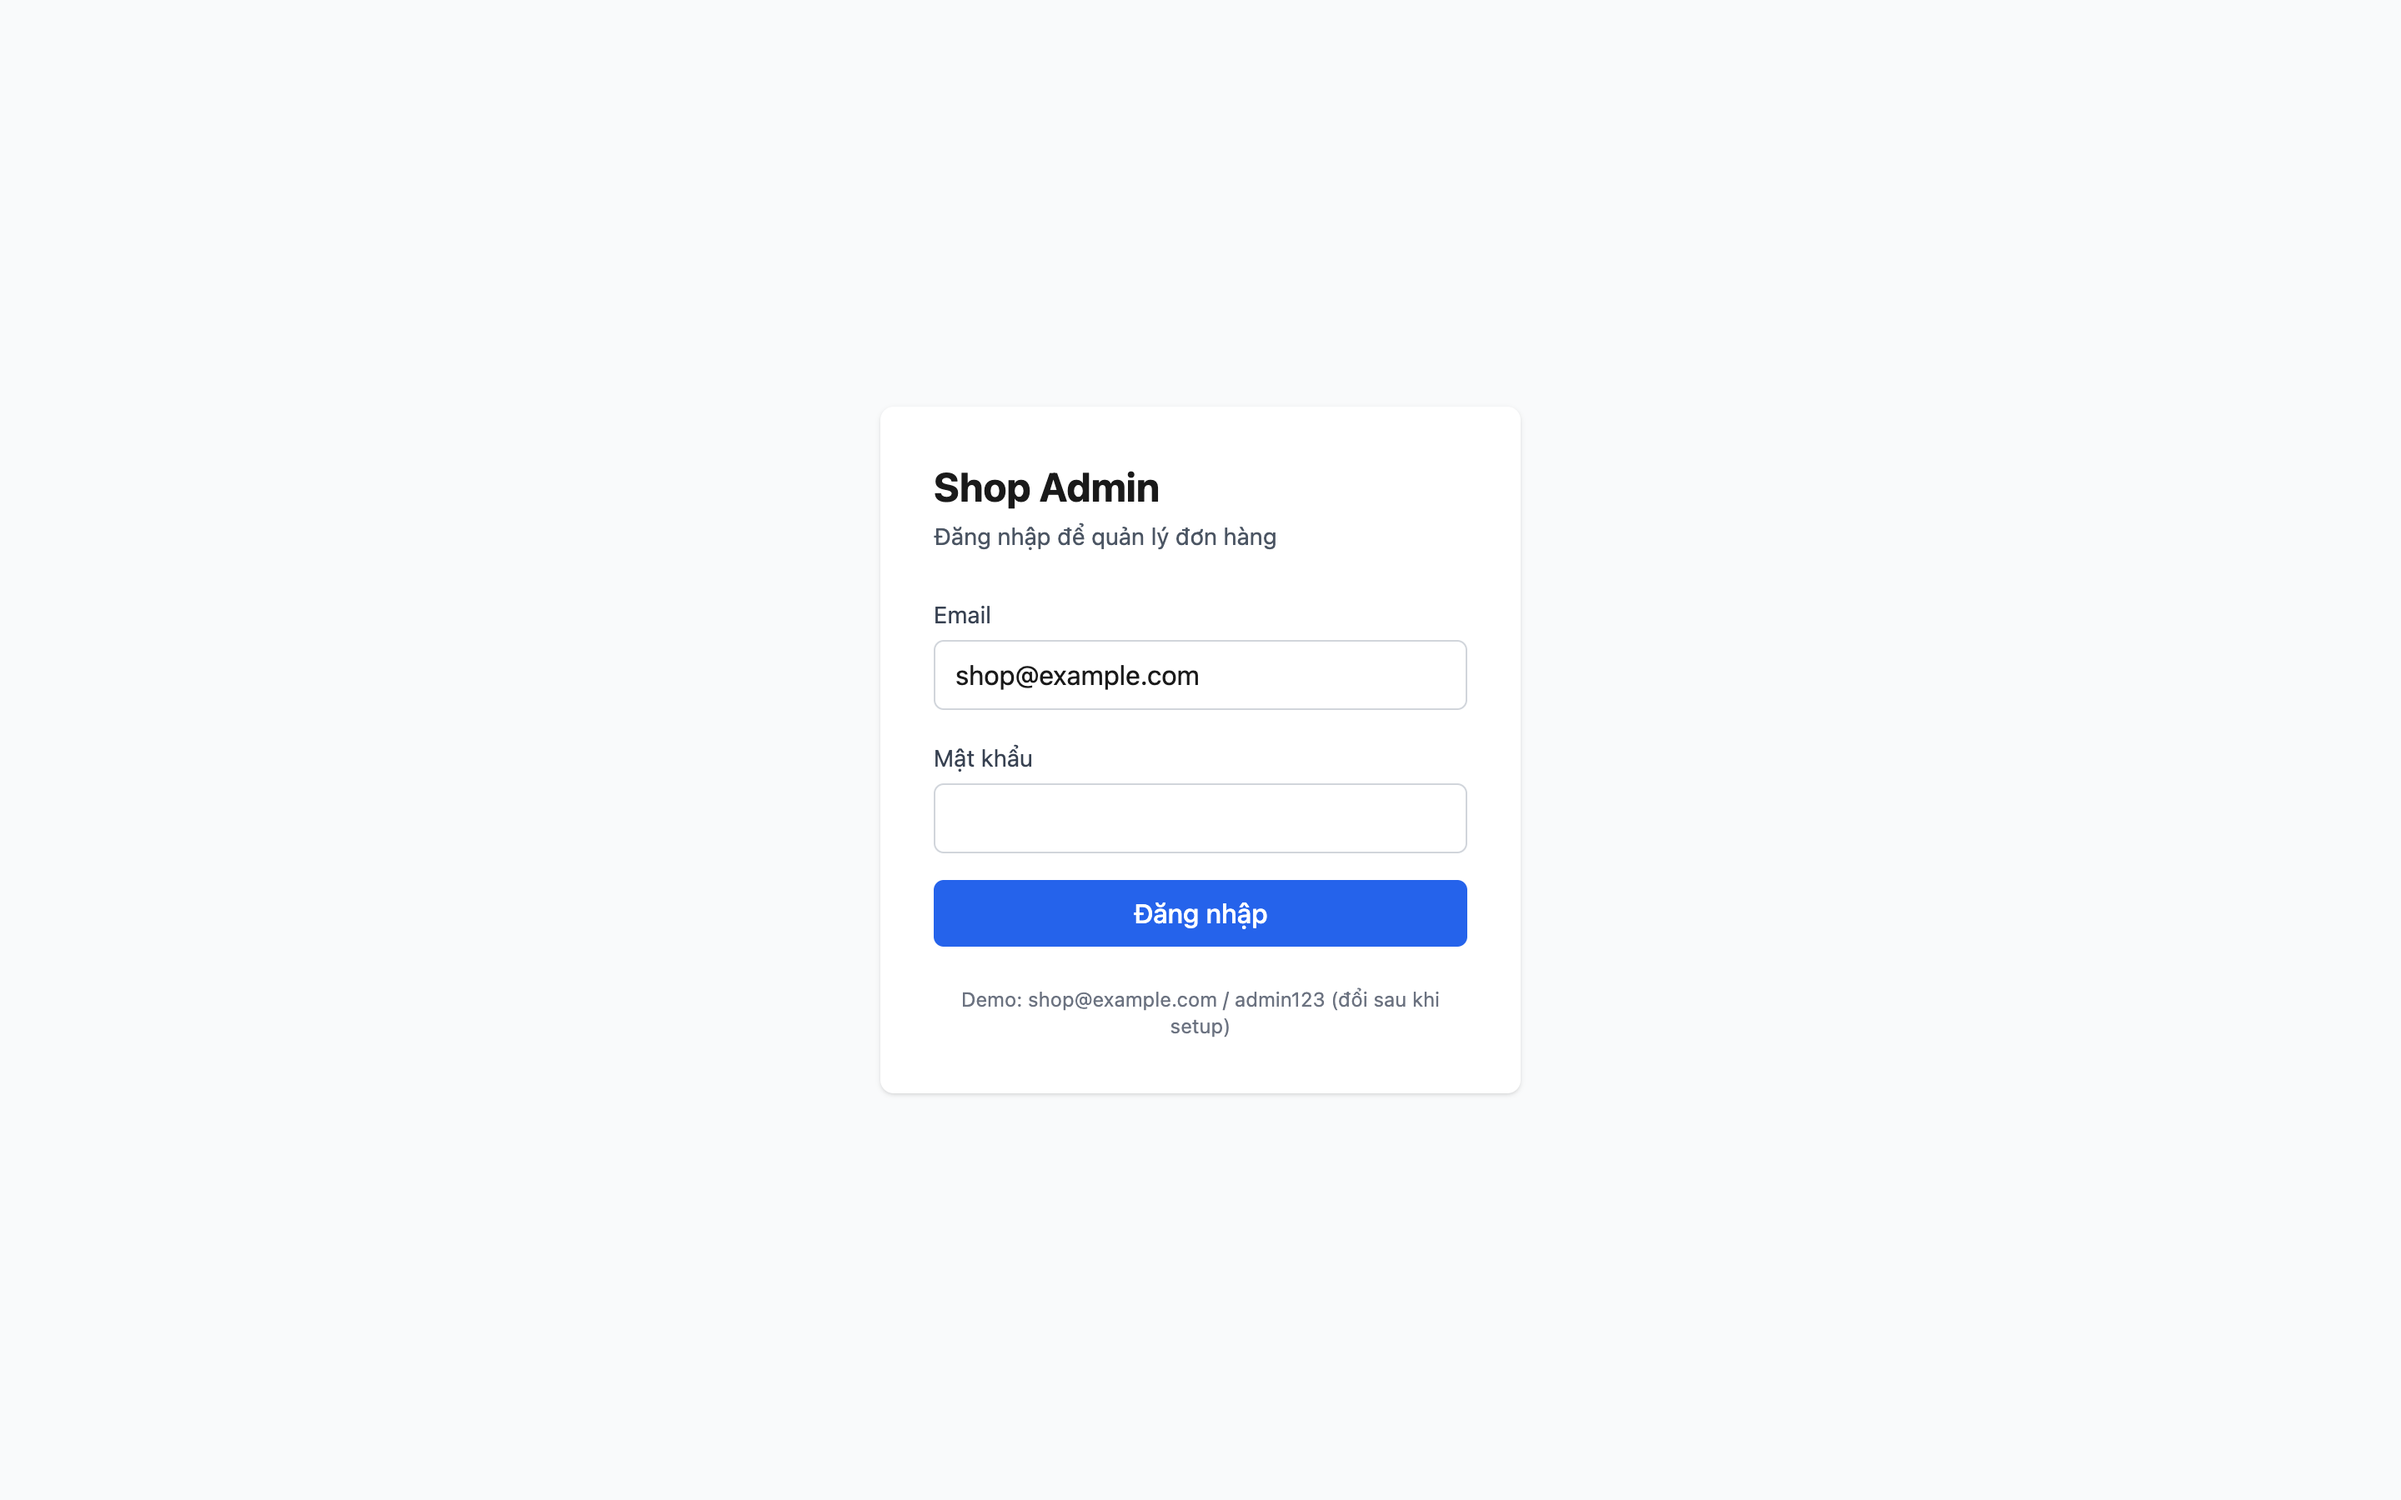
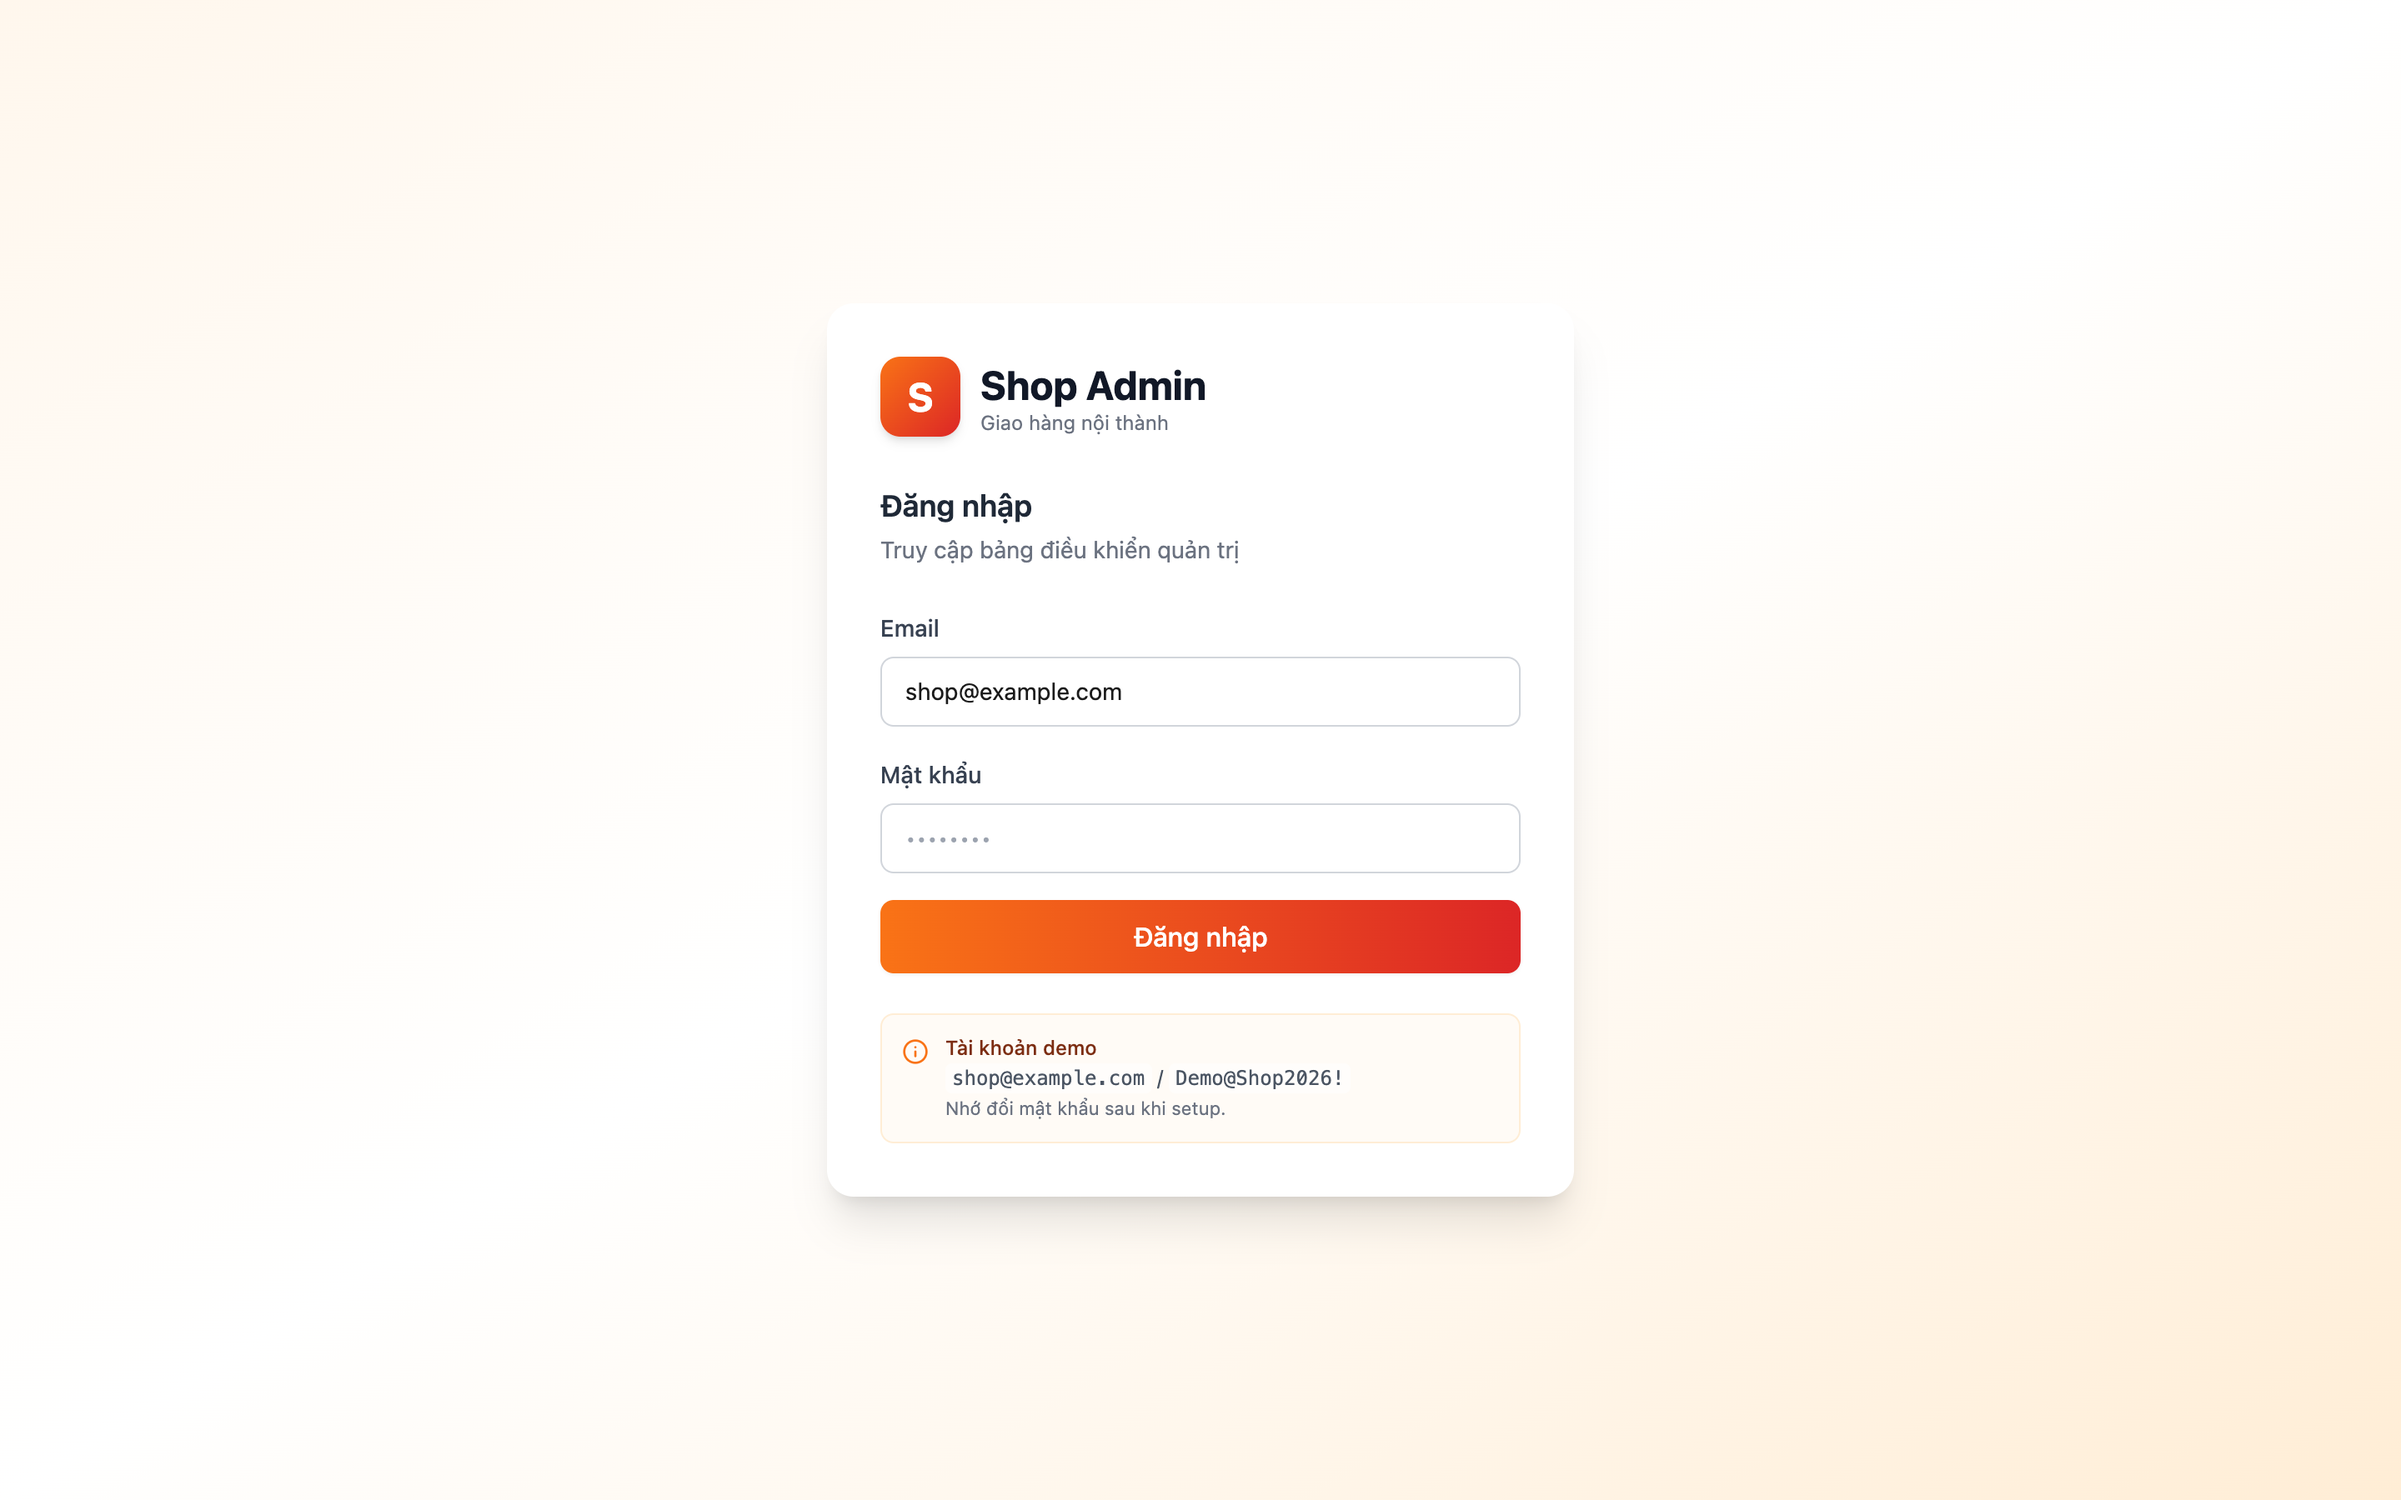
feat(webadmin): polish LoginPage with orange brand identity
- Gradient background (orange-50 → white → orange-100), max-w-md card
- Brand header with S logo tile matching Sidebar
- Gradient submit button + spinner loading state
- Demo credentials hint with info icon
- Tailwind: add fade-in keyframe + animation
- Refresh thesis screenshot to capture new look

diff --git a/frontend/webadmin/src/pages/LoginPage.tsx b/frontend/webadmin/src/pages/LoginPage.tsx
@@ -47,38 +47,63 @@ export function LoginPage() {
   };
 
   return (
-    <div className="min-h-screen flex items-center justify-center bg-gray-50 px-4">
-      <div className="w-full max-w-sm bg-white rounded-lg shadow p-8">
-        <h1 className="text-2xl font-bold mb-1">Shop Admin</h1>
-        <p className="text-sm text-gray-600 mb-6">Đăng nhập để quản lý đơn hàng</p>
+    <div className="min-h-screen flex items-center justify-center bg-gradient-to-br from-orange-50 via-white to-orange-100 px-4 py-8">
+      <div className="w-full max-w-md bg-white rounded-2xl shadow-xl p-8 animate-fade-in">
+        {/* Brand header */}
+        <div className="flex items-center gap-3 mb-7">
+          <div className="w-12 h-12 rounded-xl bg-gradient-to-br from-orange-500 to-red-600 flex items-center justify-center text-white font-bold text-2xl shadow-md">
+            S
+          </div>
+          <div>
+            <h1 className="text-2xl font-bold text-gray-900 leading-tight">Shop Admin</h1>
+            <p className="text-xs text-gray-500 leading-tight">Giao hàng nội thành</p>
+          </div>
+        </div>
+
+        <div className="mb-6">
+          <h2 className="text-lg font-semibold text-gray-800">Đăng nhập</h2>
+          <p className="text-sm text-gray-500 mt-0.5">Truy cập bảng điều khiển quản trị</p>
+        </div>
 
         {error && (
-          <div className="bg-red-50 border border-red-200 text-red-700 text-sm rounded-md p-3 mb-4">
-            {error}
+          <div
+            role="alert"
+            className="bg-red-50 border border-red-200 text-red-700 text-sm rounded-lg p-3 mb-4 flex items-start gap-2 animate-fade-in"
+          >
+            <svg xmlns="http://www.w3.org/2000/svg" className="w-5 h-5 flex-shrink-0 mt-0.5" fill="none"
+                 viewBox="0 0 24 24" stroke="currentColor" strokeWidth="2"
+                 strokeLinecap="round" strokeLinejoin="round">
+              <circle cx="12" cy="12" r="10" />
+              <line x1="12" y1="8" x2="12" y2="12" />
+              <line x1="12" y1="16" x2="12.01" y2="16" />
+            </svg>
+            <span>{error}</span>
           </div>
         )}
 
         <form onSubmit={onSubmit} className="space-y-4">
           <label className="block">
-            <span className="text-sm text-gray-700">Email</span>
+            <span className="text-sm font-medium text-gray-700">Email</span>
             <input
               type="email"
               required
               value={email}
               onChange={e => setEmail(e.target.value)}
-              className="mt-1 w-full px-3 py-2 border border-gray-300 rounded-md focus:ring-2 focus:ring-brand-500 focus:border-brand-500"
+              placeholder="ban@shopcuaban.vn"
+              className="mt-1.5 w-full px-3.5 py-2.5 border border-gray-300 rounded-lg text-sm focus:ring-2 focus:ring-orange-500 focus:border-orange-500 outline-none transition"
               autoComplete="email"
             />
           </label>
 
           <label className="block">
-            <span className="text-sm text-gray-700">Mật khẩu</span>
+            <span className="text-sm font-medium text-gray-700">Mật khẩu</span>
             <input
               type="password"
               required
               value={password}
               onChange={e => setPassword(e.target.value)}
-              className="mt-1 w-full px-3 py-2 border border-gray-300 rounded-md focus:ring-2 focus:ring-brand-500 focus:border-brand-500"
+              placeholder="••••••••"
+              className="mt-1.5 w-full px-3.5 py-2.5 border border-gray-300 rounded-lg text-sm focus:ring-2 focus:ring-orange-500 focus:border-orange-500 outline-none transition"
               autoComplete="current-password"
             />
           </label>
@@ -86,15 +111,42 @@ export function LoginPage() {
           <button
             type="submit"
             disabled={loginMut.isPending}
-            className="w-full py-2 bg-brand-600 text-white rounded-md hover:bg-brand-700 disabled:opacity-50 font-medium"
+            className="w-full py-2.5 bg-gradient-to-r from-orange-500 to-red-600 text-white rounded-lg font-medium shadow-sm hover:shadow-md active:scale-[0.98] disabled:opacity-60 disabled:cursor-not-allowed disabled:active:scale-100 transition flex items-center justify-center gap-2"
           >
-            {loginMut.isPending ? 'Đang đăng nhập...' : 'Đăng nhập'}
+            {loginMut.isPending ? (
+              <>
+                <svg className="animate-spin w-4 h-4" xmlns="http://www.w3.org/2000/svg" fill="none" viewBox="0 0 24 24">
+                  <circle className="opacity-25" cx="12" cy="12" r="10" stroke="currentColor" strokeWidth="4" />
+                  <path className="opacity-75" fill="currentColor"
+                        d="M4 12a8 8 0 018-8v4a4 4 0 00-4 4H4z" />
+                </svg>
+                <span>Đang đăng nhập…</span>
+              </>
+            ) : (
+              <span>Đăng nhập</span>
+            )}
           </button>
         </form>
 
-        <p className="mt-6 text-xs text-gray-500 text-center">
-          Demo: shop@example.com / Demo@Shop2026! (đổi sau khi setup)
-        </p>
+        {/* Demo credentials hint */}
+        <div className="mt-6 bg-orange-50/50 border border-orange-100 rounded-lg p-3 flex gap-2.5 text-xs">
+          <svg xmlns="http://www.w3.org/2000/svg" className="w-4 h-4 flex-shrink-0 text-orange-500 mt-0.5" fill="none"
+               viewBox="0 0 24 24" stroke="currentColor" strokeWidth="2"
+               strokeLinecap="round" strokeLinejoin="round">
+            <circle cx="12" cy="12" r="10" />
+            <line x1="12" y1="16" x2="12" y2="12" />
+            <line x1="12" y1="8" x2="12.01" y2="8" />
+          </svg>
+          <div className="text-gray-700">
+            <p className="font-medium text-orange-900 mb-0.5">Tài khoản demo</p>
+            <p className="text-gray-600">
+              <code className="bg-white/60 px-1 py-0.5 rounded">shop@example.com</code>
+              {' / '}
+              <code className="bg-white/60 px-1 py-0.5 rounded">Demo@Shop2026!</code>
+            </p>
+            <p className="text-gray-500 mt-0.5 text-[11px]">Nhớ đổi mật khẩu sau khi setup.</p>
+          </div>
+        </div>
       </div>
     </div>
   );

diff --git a/frontend/webadmin/tailwind.config.ts b/frontend/webadmin/tailwind.config.ts
@@ -12,6 +12,15 @@ export default {
           700: '#1d4ed8',
         },
       },
+      keyframes: {
+        'fade-in': {
+          '0%': { opacity: '0', transform: 'translateY(4px)' },
+          '100%': { opacity: '1', transform: 'translateY(0)' },
+        },
+      },
+      animation: {
+        'fade-in': 'fade-in 220ms ease-out',
+      },
     },
   },
   plugins: [],
